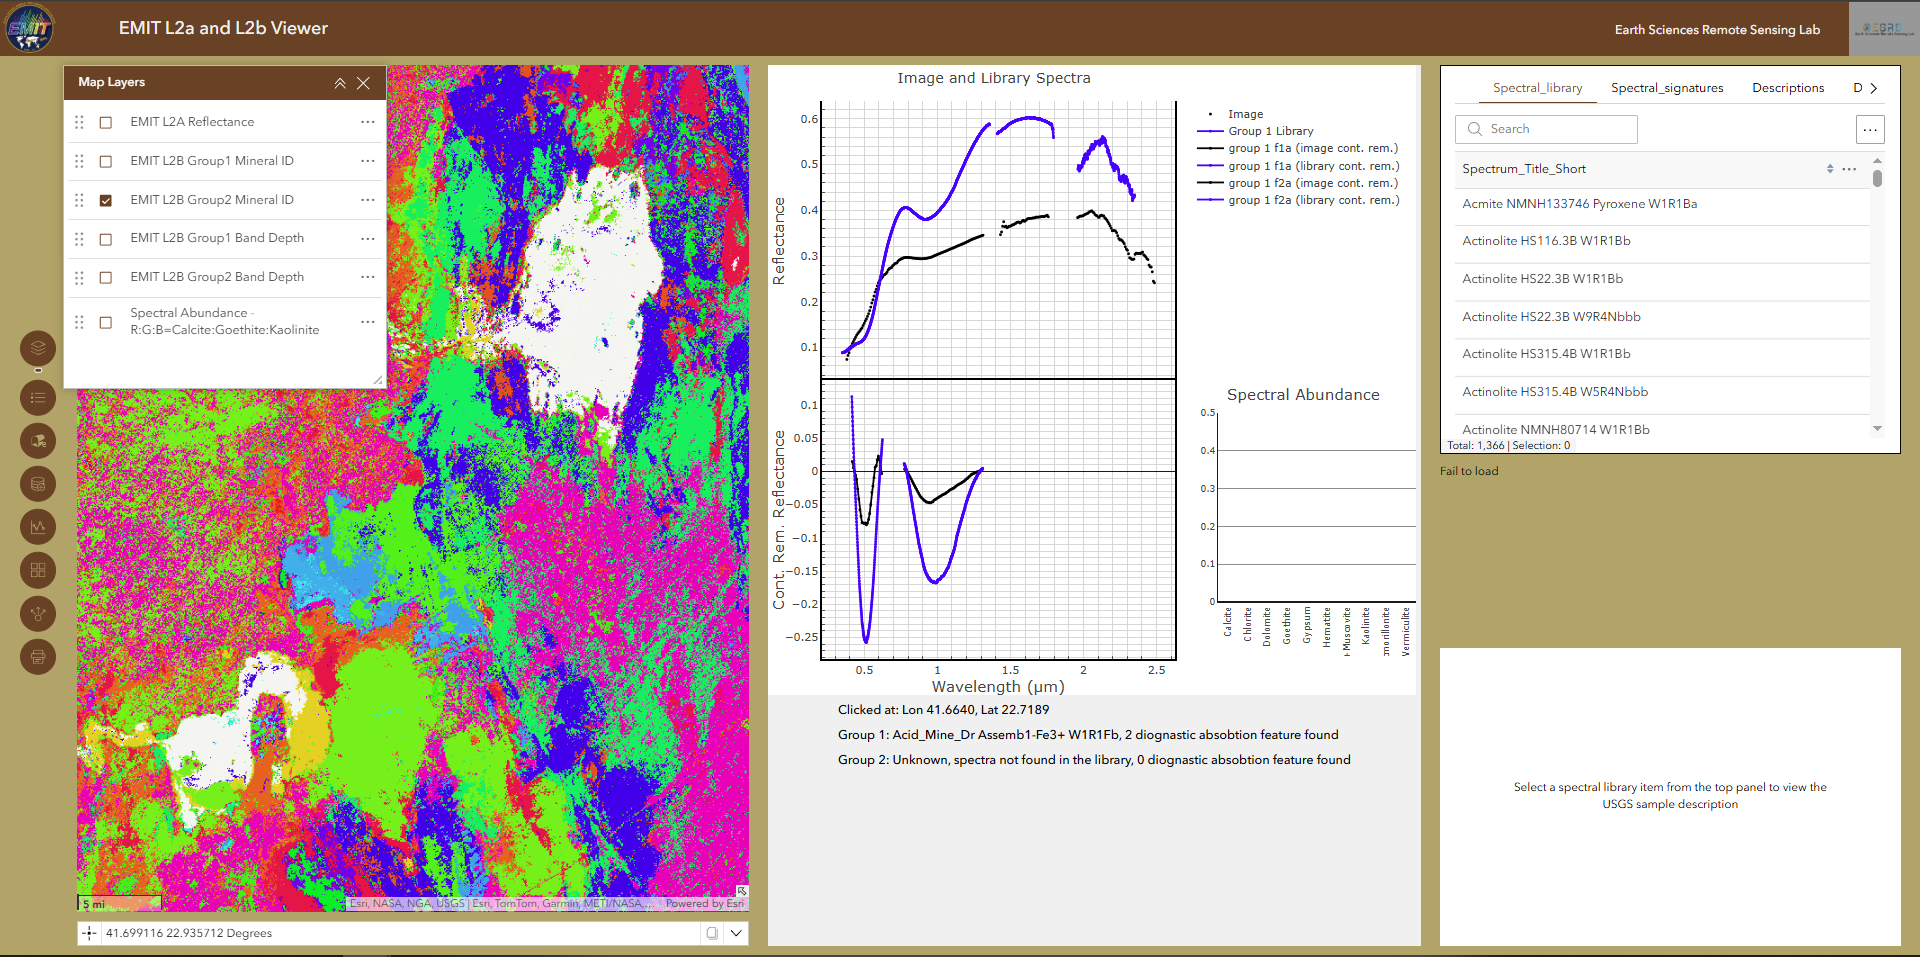
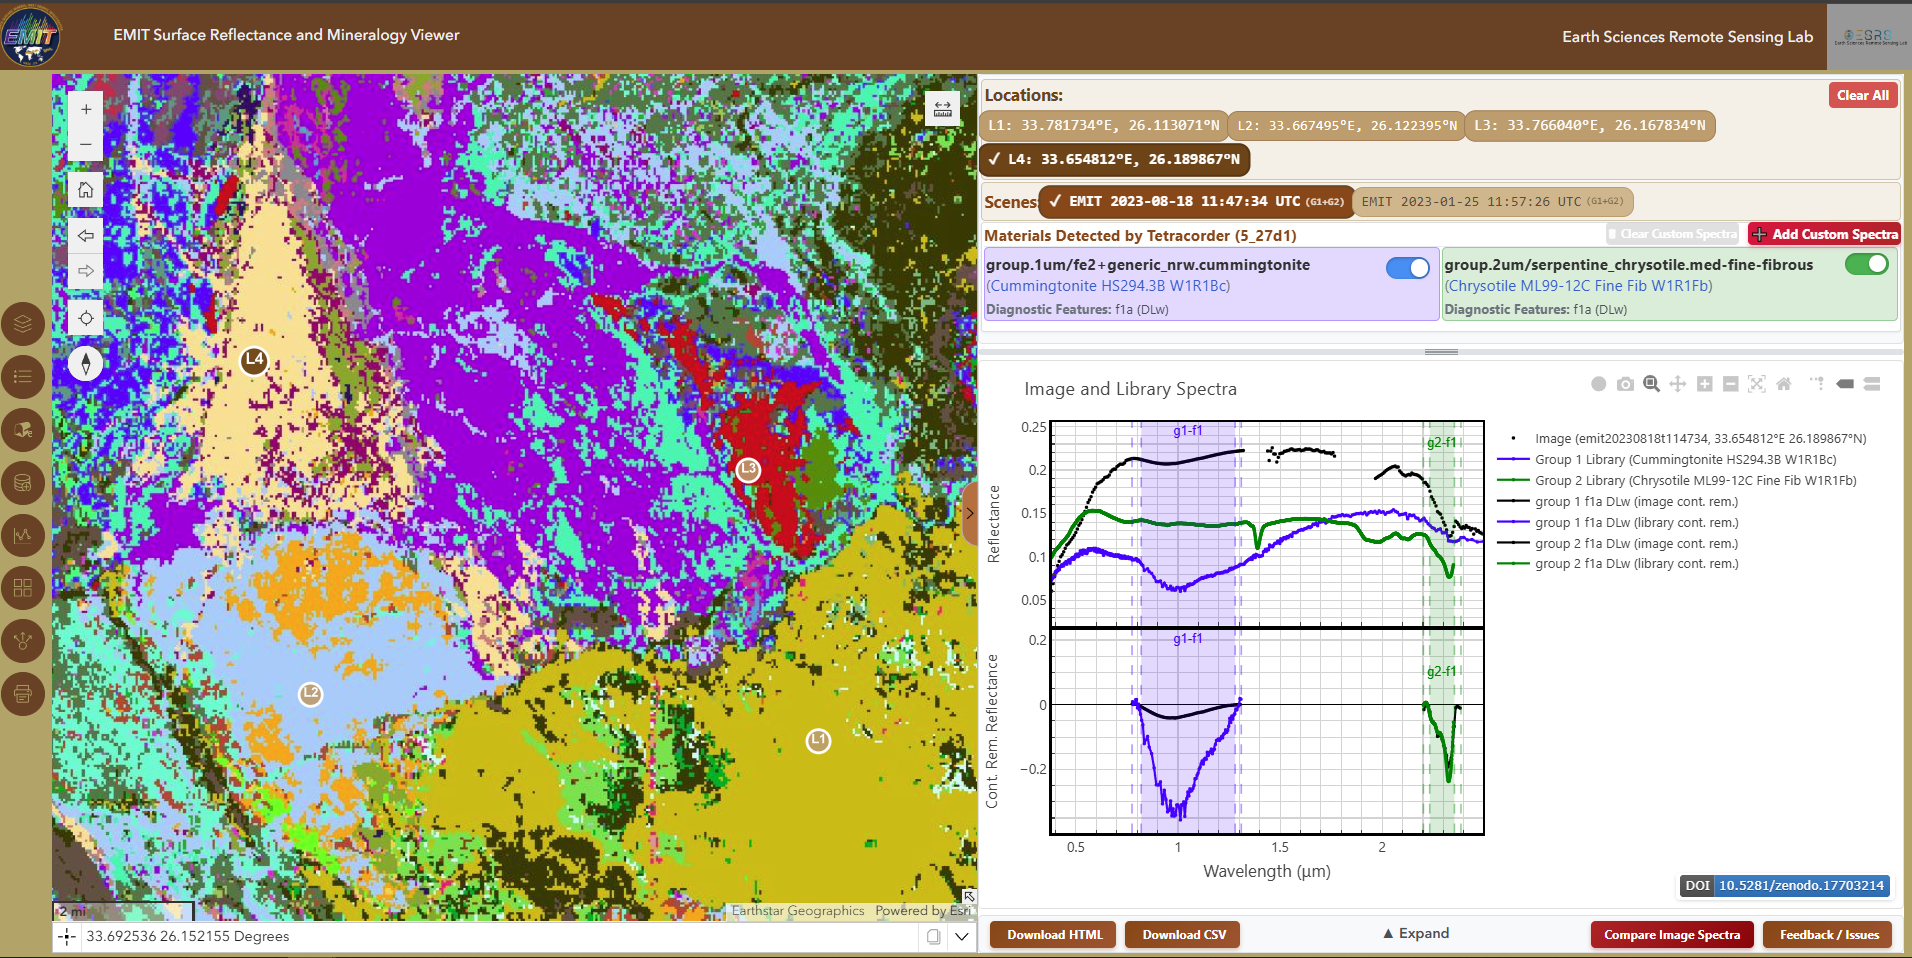
EMIT project page update

diff --git a/_projects/emit.md b/_projects/emit.md
@@ -5,17 +5,29 @@ description: Mapping surface minerology in Arabian-Nubian Shields using imaging 
 img: assets/img/EMIT_1.png
 importance: 1
 category: work
-related_publications: true
+related_publications: false
 ---
 
+**Grant Title:** EMIT for Lithologic Mapping, Mineral Exploration, and Tectonic Investigations in Arid Lands  
+**Funding Agency:** NASA  
+**Grant Number:** 80NSSC24K0863  
+**Period:** 2024 – 2027
 
-[View our EMIT viewer web application](https://www.esrs.wmich.edu/webmap/EMIT_viewer_draft/)
-[View our USGS spectral library viewer web application](https://experience.arcgis.com/experience/15837e6932fa49939b2b0f1140e7bdf1/)
+> **Abstract:**  
+> We are evaluating the lithologic mapping capabilities of EMIT, their application for identifying mineralization in arid and hyperarid crystalline terrains, and their potential contribution to understanding the accretionary and post-accretionary history of Nubian Arabian Shields.
 
-Grant Title: EMIT for Lithologic Mapping, Mineral Exploration, and Tectonic Investigations in Arid Lands
-Funding Agency: NASA
-Grant Number: 80NSSC24K0863
-Period :2024 - 2027
-Abstract:
-We are evaluating the lithologic mapping capabilities of EMIT, their application for identifying mineralization in arid and hyperarid crystalline terrains, and their potential contribution to our understanding of the accretionary and post-accretionary history of areas under investigation. We selected as our test sites, the once contiguous Eastern Desert of Egypt in the Nubian Shield and the Midyan Region in the Arabian Shield prior to the Red Sea opening. They were selected as test sites for the following reasons: (1) vegetation and cloud coverage is minimal to absent, (2) the test sites host the overwhelming majority of the lithologies of the Arabian Nubian Shield (ANS; ~2.5 M km2) and thus, the developed EMIT-based mapping capabilities could be readily applied elsewhere across the ANS, (3) we have already field checked, sampled, and analyzed many of those units within the test sites for their mineralogic, petrographic, and spectral characteristics, and (4) the test sites encompass multiple gold mineralization sites. We will investigate the extent to which EMIT data can be used to accomplish the following objectives: (1) improve existing geologic maps and Landsat TM-based lithologic maps, (2) use the generated regional maps to enhance our understanding of the accretionary history of the ANS, (3) correlate the lithologies and structures along the Red Sea coastlines and further investigate the validity of pre-Red Sea reconstructions including ours (pole: lat. 34.6°N, long. 18.l°E; rotation amount: 6.7°) and constrain the post-accretionary history of the ANS, (4) develop and test an exploration model that integrates observations from EMIT hyperspectral data with regional- and small-scale tectonic and geological controls to identify existing and previously unrecognized gold mineralization locations, and (5) share and distribute the project's data and findings with the scientific community. The objectives will be accomplished by applying an approach that integrates observations from EMIT hyperspectral data (e.g., mineral maps, supervised spectral angle mapping classifications), multispectral data (TM band ratio images), VNIR field spectrometer, petrographic (modal abundances, XRD), and geochemical data (XRF, SEM, gold assays).
+[**See full abstract and the team at NASA project webpage**](https://earth.jpl.nasa.gov/emit/science/team-projects/maps-geology/)
+
+**Products:**
+
+[**SpectralViewer web application**](https://www.esrs.wmich.edu/webmap/SpectralViewer/)\
+A web application for visualizing and analyzing NASA’s EMIT surface reflectance and mineralogy data, accessible at https://www.esrs.wmich.edu/webmap/SpectralViewer/ or https://www.esrs.wmich.edu/webmap/EMIT_viewer/
+
+[![DOI](https://zenodo.org/badge/DOI/10.5281/zenodo.17703214.svg)](https://doi.org/10.5281/zenodo.17703214)
+
+> [**AGU 2025 Abstract:**](https://agu.confex.com/agu/agu25/meetingapp.cgi/Paper/1915982)
+> We present a new web application that supports interactive visualization and analysis of NASA’s EMIT (Earth Surface Mineral Dust Source Investigation) hyperspectral surface reflectance and mineralogy data. The tool enables users to explore EMIT Level 2A reflectance and L2B mineral identification products, along with the spectral abundance of 10 EMIT minerals. It incorporates the USGS reference spectral library and diagnostic absorption features as defined by the Tetracorder expert system. Users can click on map locations to retrieve and plot observed reflectance, compare it with library spectra, and analyze diagnostic absorption features of identified materials using the continuum removal technique. The application provides dual spectral plots (reflectance and continuum-removed reflectance), mineral abundance bar charts, and detailed information panels, making it a valuable resource for both scientific research and educational outreach. It also allows downloading interactive plots for offline use. To improve geological context, the application integrates regional geological maps, digital elevation models (DEMs), drainage networks, and locations of known critical mineral occurrences. These additional data layers support more comprehensive analysis and interpretation of the EMIT-derived mineralogy and its potential for mineral exploration. This platform simplifies access to EMIT data, enhances mineralogical interpretation, and facilitates reproducible geospatial analysis for the imaging spectroscopy and mineral exploration communities. Currently, data coverage extends from the Nubian Arabian Shield in the West, across the Arabian Peninsula, to the Zagros Mountains in the East. The application is publicly accessible and designed to be adaptable for other hyperspectral sensors.
+
+[![Spectral Viewer](assets/img/EMIT_1.png/)](https://www.esrs.wmich.edu/webmap/SpectralViewer/)
+
 
